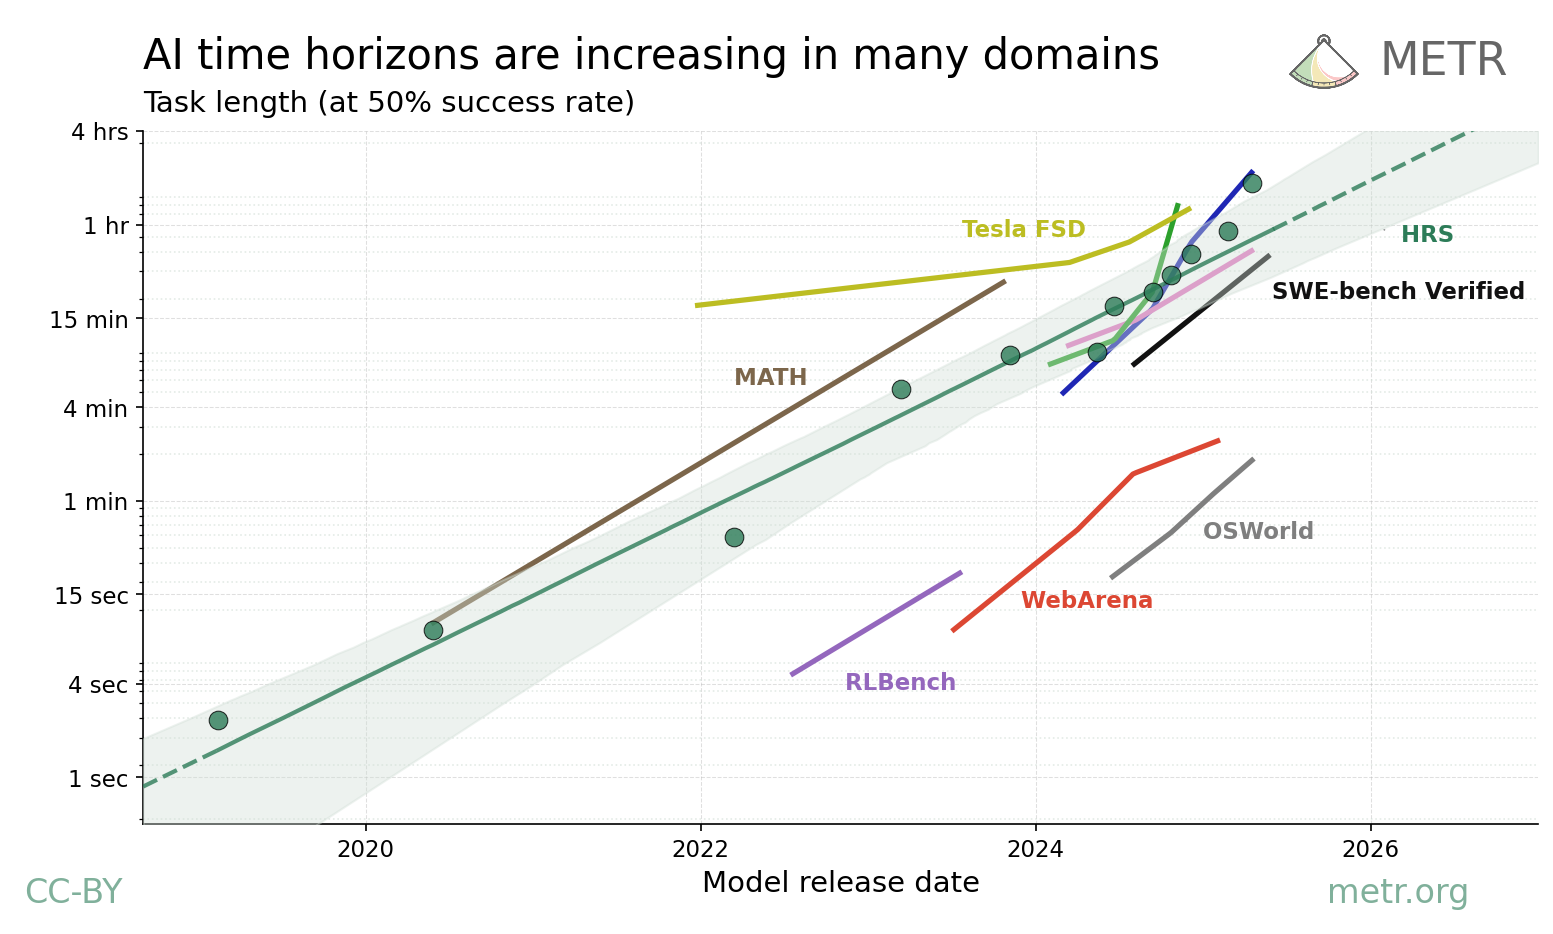
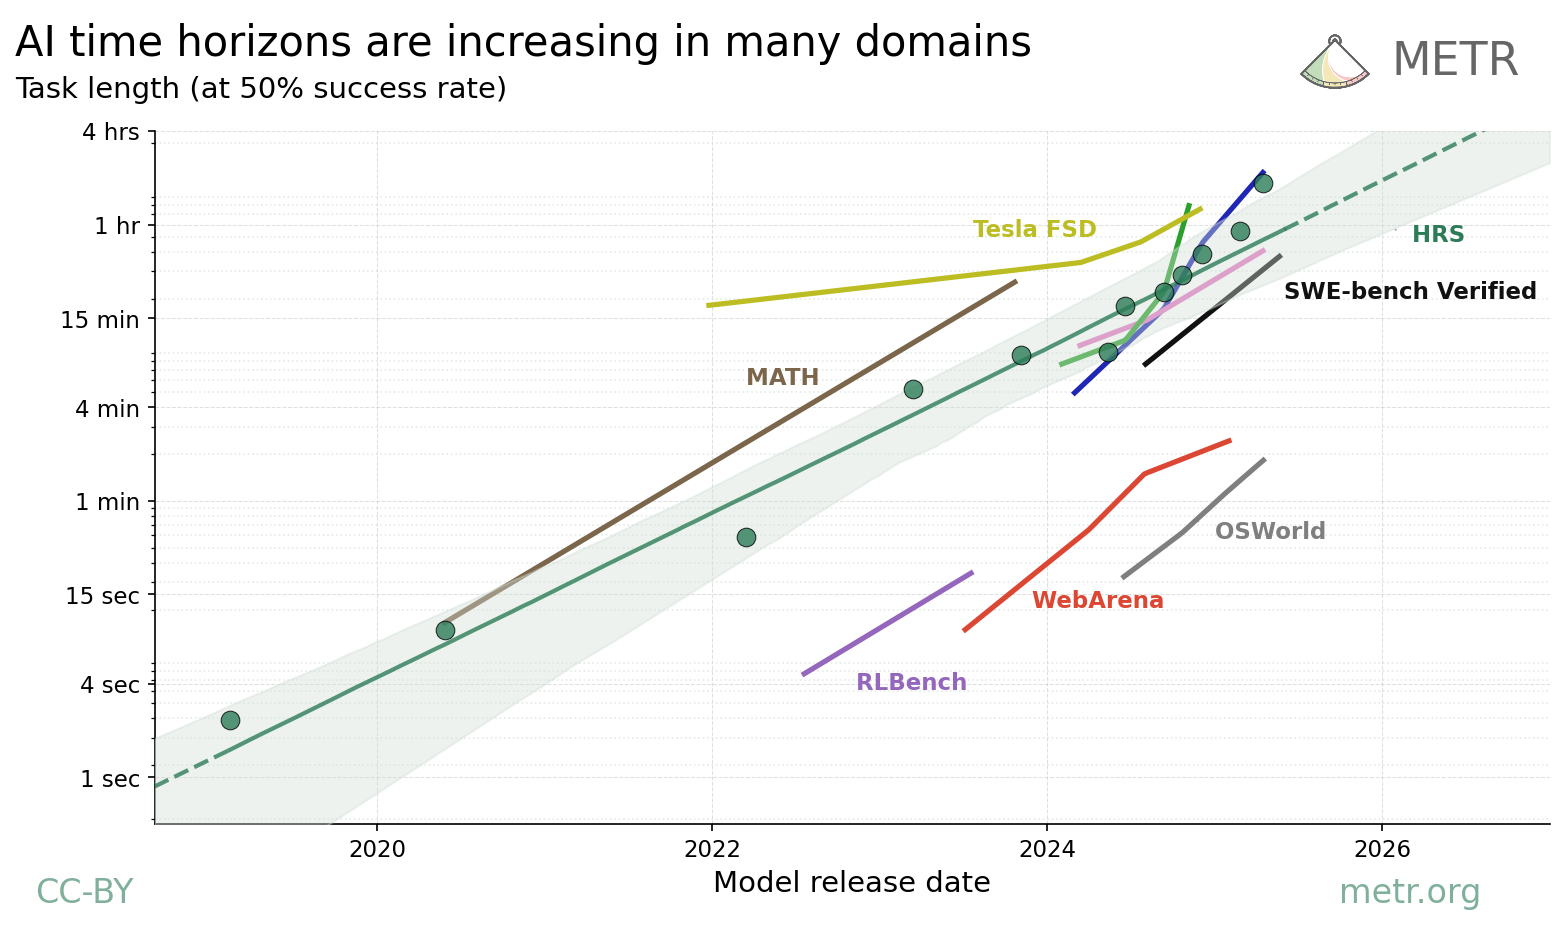
adjust title alignment

diff --git a/combined.py b/combined.py
@@ -806,16 +806,20 @@ def plot_combined(df, output_file,
     
     # Labels and title
     plt.xlabel("Model release date", fontsize=14)
-    # Position y-axis label above the y-axis like in reference image
-    ax.text(0.0, 1.02, "Task length (at 50% success rate)", 
+    
+    # Position y-axis label above the y-axis, shifted left to align with title
+    ax.text(-0.1, 1.04, "Task length (at 50% success rate)", 
             transform=ax.transAxes, 
             fontsize=14, 
             rotation=0, 
             verticalalignment='bottom',
             horizontalalignment='left')
-    # Align title to the left
+    
     ax.set_title(params.title, 
-                fontsize=20, pad=30, loc='left')
+                fontsize=20, 
+                pad=36, 
+                x=-0.1,
+                loc='left')
     
     # Grid for readability
     ax.grid(True, which="major", ls="--", linewidth=0.5, alpha=0.4)
